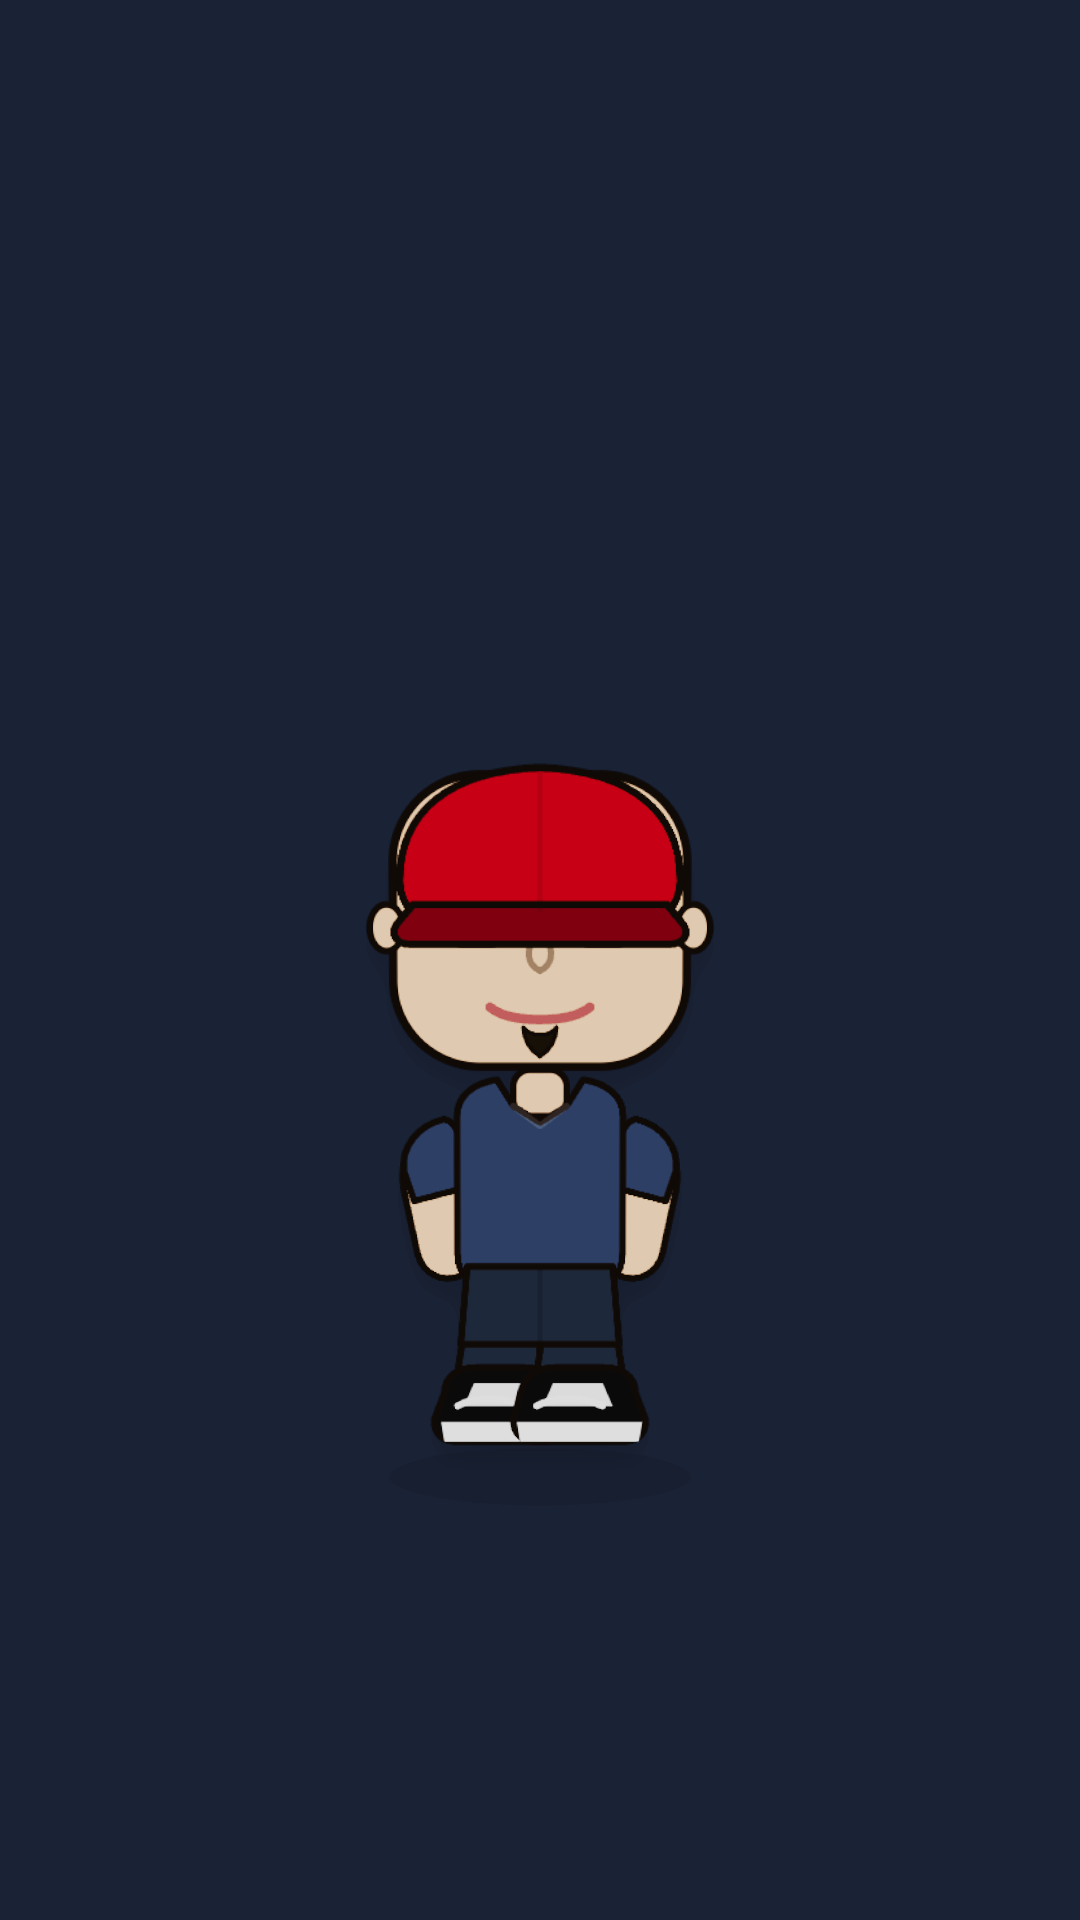
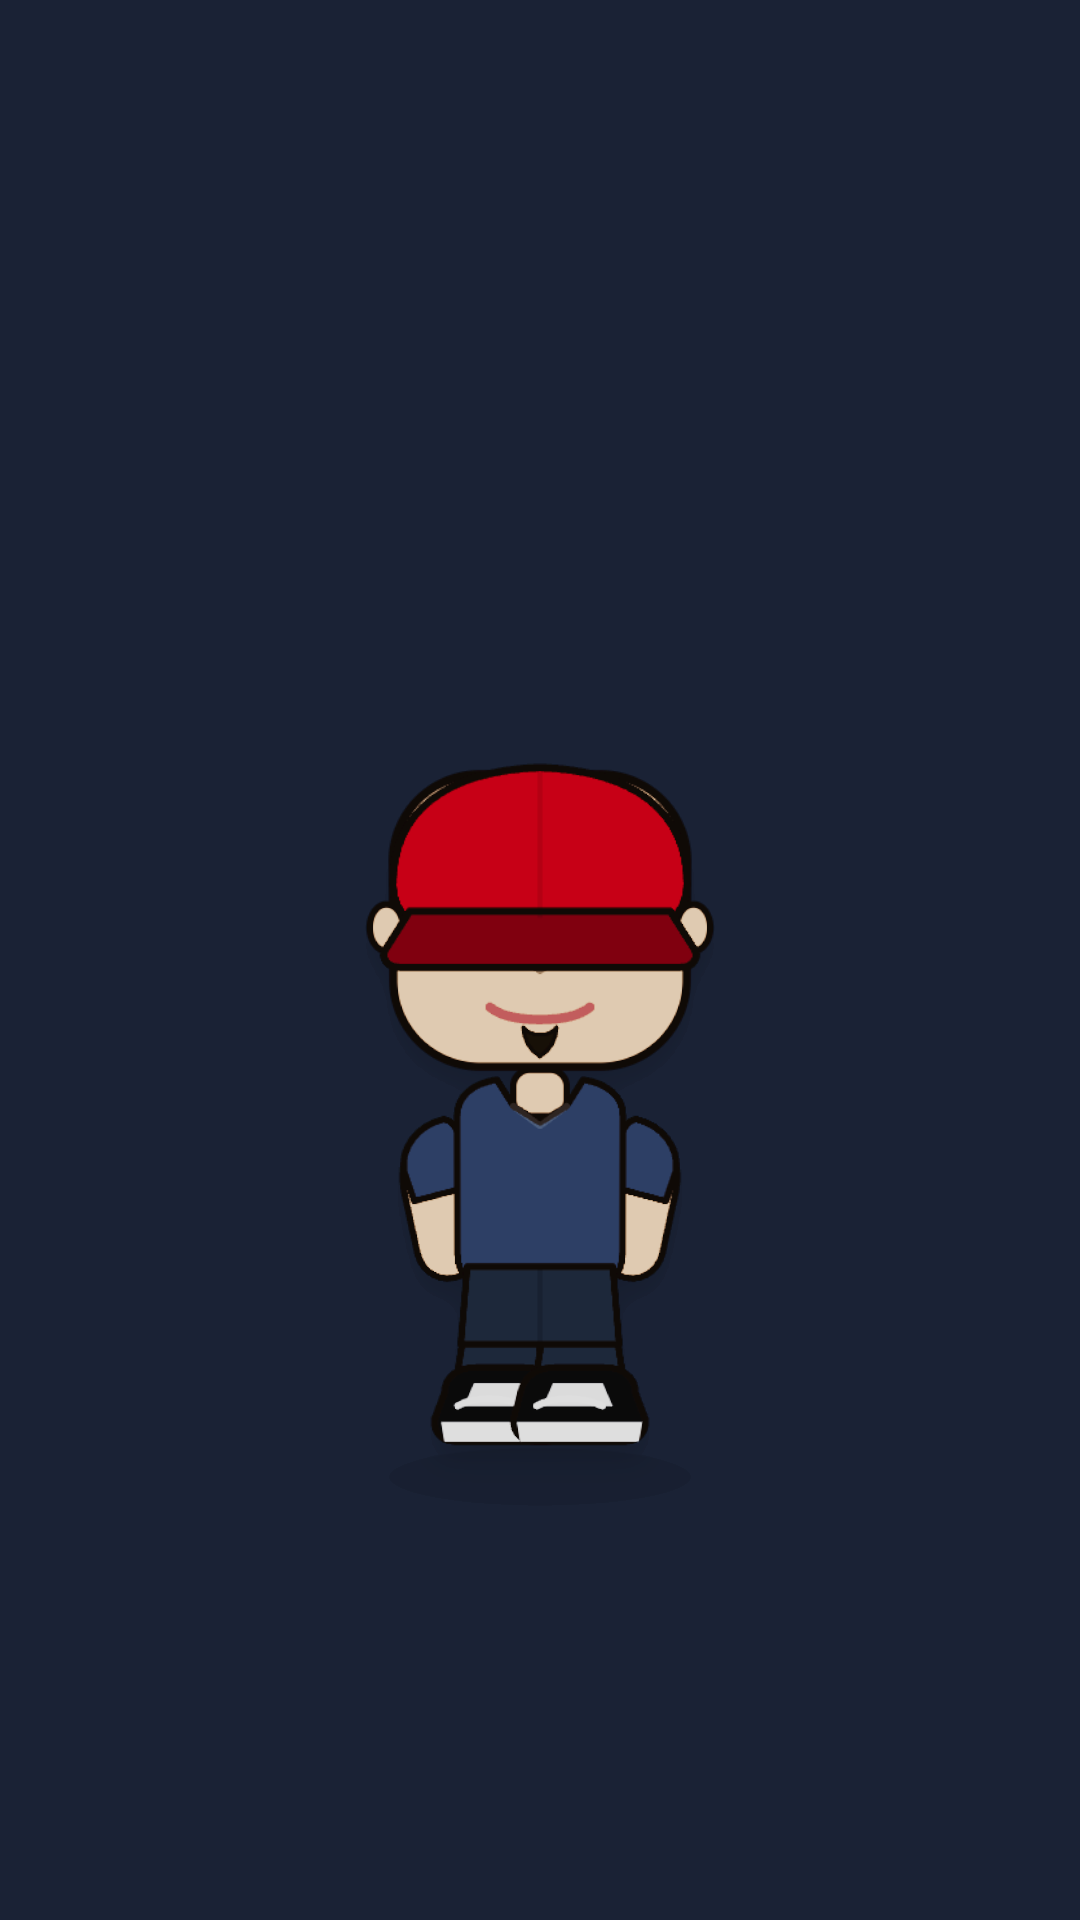
Update Chester/Mike character assets: red flame tattoos, cap fit, refreshed renders

Changed region(s): [[0.3361, 0.4062, 0.6417, 0.5312]]

diff --git a/src/characters/base/MaleBaseCharacter.tsx b/src/characters/base/MaleBaseCharacter.tsx
@@ -73,7 +73,7 @@ const DEFAULT_COLORS = {
   goatee: "#2B2118",
   cap: "#2D3748",
   capDetail: "#1A202C",
-  tattoo: "#2F5F3A",
+  tattoo: "#C0392B",
 };
 
 type C = typeof DEFAULT_COLORS;
@@ -235,11 +235,13 @@ export const MaleBaseCharacter: React.FC<MaleBaseCharacterProps> = ({
           <g id={gid("arm-left")} transform={`rotate(${armLeftRotate} 150 305)`}>
             <path d="M144 304 C124 308, 114 324, 118 344 L126 382 C129 394, 140 400, 151 396 C162 392, 168 380, 165 368 L157 336 L160 320" fill={skin} stroke={outline} strokeWidth="4" strokeLinecap="round" strokeLinejoin="round" />
             {tattoos && (
-              <g id={gid("tattoo-left")} opacity="0.72" fill="none" stroke={tattoo} strokeLinecap="round" strokeLinejoin="round">
-                <path d="M134 372 C130 364, 132 356, 138 350 C141 356, 145 360, 144 368 C142 374, 138 378, 134 372 Z" fill={tattoo} strokeWidth="1.8" />
-                <path d="M141 362 C138 356, 140 350, 145 344 C148 350, 151 354, 150 360 C148 366, 144 368, 141 362 Z" fill={tattoo} strokeWidth="1.8" />
-                <path d="M132 382 C129 376, 131 370, 136 366" strokeWidth="2.2" />
-                <path d="M148 380 C150 374, 149 369, 145 364" strokeWidth="2" />
+              <g id={gid("tattoo-left")} opacity="0.9" stroke={tattoo} strokeLinecap="round" strokeLinejoin="round">
+                <path d="M126 390 C132 390, 140 390, 150 388" fill="none" strokeWidth="2.4" />
+                <path d="M127 386 C125 380, 128 374, 132 370 C134 376, 136 380, 134 386 Z" fill={tattoo} strokeWidth="1.2" />
+                <path d="M134 386 C132 379, 135 372, 140 368 C142 374, 144 379, 142 386 Z" fill={tattoo} strokeWidth="1.2" />
+                <path d="M141 385 C139 378, 142 371, 147 367 C149 373, 151 378, 149 385 Z" fill={tattoo} strokeWidth="1.2" />
+                <path d="M130 372 C131 368, 134 365, 137 366" fill="none" strokeWidth="1.8" />
+                <path d="M137 370 C138 366, 141 363, 144 364" fill="none" strokeWidth="1.8" />
               </g>
             )}
             <path d="M142 300 C126 304, 116 317, 118 332 L124 350 L154 342 L152 316 C151 306, 148 301, 142 300 Z" fill={shirt} stroke={outline} strokeWidth="4" strokeLinejoin="round" />
@@ -247,11 +249,13 @@ export const MaleBaseCharacter: React.FC<MaleBaseCharacterProps> = ({
           <g id={gid("arm-right")} transform={`rotate(${armRightRotate} 250 305)`}>
             <path d="M256 304 C276 308, 286 324, 282 344 L274 382 C271 394, 260 400, 249 396 C238 392, 232 380, 235 368 L243 336 L240 320" fill={skin} stroke={outline} strokeWidth="4" strokeLinecap="round" strokeLinejoin="round" />
             {tattoos && (
-              <g id={gid("tattoo-right")} opacity="0.72" fill="none" stroke={tattoo} strokeLinecap="round" strokeLinejoin="round">
-                <path d="M266 372 C270 364, 268 356, 262 350 C259 356, 255 360, 256 368 C258 374, 262 378, 266 372 Z" fill={tattoo} strokeWidth="1.8" />
-                <path d="M259 362 C262 356, 260 350, 255 344 C252 350, 249 354, 250 360 C252 366, 256 368, 259 362 Z" fill={tattoo} strokeWidth="1.8" />
-                <path d="M268 382 C271 376, 269 370, 264 366" strokeWidth="2.2" />
-                <path d="M252 380 C250 374, 251 369, 255 364" strokeWidth="2" />
+              <g id={gid("tattoo-right")} opacity="0.9" stroke={tattoo} strokeLinecap="round" strokeLinejoin="round">
+                <path d="M274 390 C268 390, 260 390, 250 388" fill="none" strokeWidth="2.4" />
+                <path d="M273 386 C275 380, 272 374, 268 370 C266 376, 264 380, 266 386 Z" fill={tattoo} strokeWidth="1.2" />
+                <path d="M266 386 C268 379, 265 372, 260 368 C258 374, 256 379, 258 386 Z" fill={tattoo} strokeWidth="1.2" />
+                <path d="M259 385 C261 378, 258 371, 253 367 C251 373, 249 378, 251 385 Z" fill={tattoo} strokeWidth="1.2" />
+                <path d="M270 372 C269 368, 266 365, 263 366" fill="none" strokeWidth="1.8" />
+                <path d="M263 370 C262 366, 259 363, 256 364" fill="none" strokeWidth="1.8" />
               </g>
             )}
             <path d="M258 300 C274 304, 284 317, 282 332 L276 350 L246 342 L248 316 C249 306, 252 301, 258 300 Z" fill={shirt} stroke={outline} strokeWidth="4" strokeLinejoin="round" />
@@ -384,9 +388,9 @@ export const MaleBaseCharacter: React.FC<MaleBaseCharacterProps> = ({
         {/* HEAD ACCESSORY */}
         {headAccessory === "cap" && (
           <g id={gid("accessory-cap")} transform={`translate(${headX} ${headY + bodyY}) rotate(${headRotate} 200 180)`}>
-            <path d="M116 156 C116 114, 146 90, 200 88 C254 90, 284 114, 284 156 C284 164, 281 170, 276 176 L124 176 C119 170, 116 164, 116 156 Z" fill={capColor} stroke={outline} strokeWidth="4.5" strokeLinejoin="round" />
-            <path d="M124 170 L276 170 L286 182 C290 188, 286 194, 278 194 L122 194 C114 194, 110 188, 114 182 Z" fill={capDetail} stroke={outline} strokeWidth="4.5" strokeLinejoin="round" />
-            <path d="M200 88 L200 174" fill="none" stroke={outline} strokeOpacity="0.12" strokeWidth="3" />
+            <path d="M112 158 C112 114, 144 90, 200 88 C256 90, 288 114, 288 158 C288 168, 284 175, 278 180 L122 180 C116 175, 112 168, 112 158 Z" fill={capColor} stroke={outline} strokeWidth="4.5" strokeLinejoin="round" />
+            <path d="M122 174 L278 174 L292 196 C296 202, 292 208, 284 208 L116 208 C108 208, 104 202, 108 196 Z" fill={capDetail} stroke={outline} strokeWidth="4.5" strokeLinejoin="round" />
+            <path d="M200 88 L200 178" fill="none" stroke={outline} strokeOpacity="0.12" strokeWidth="3" />
           </g>
         )}
       </g>
